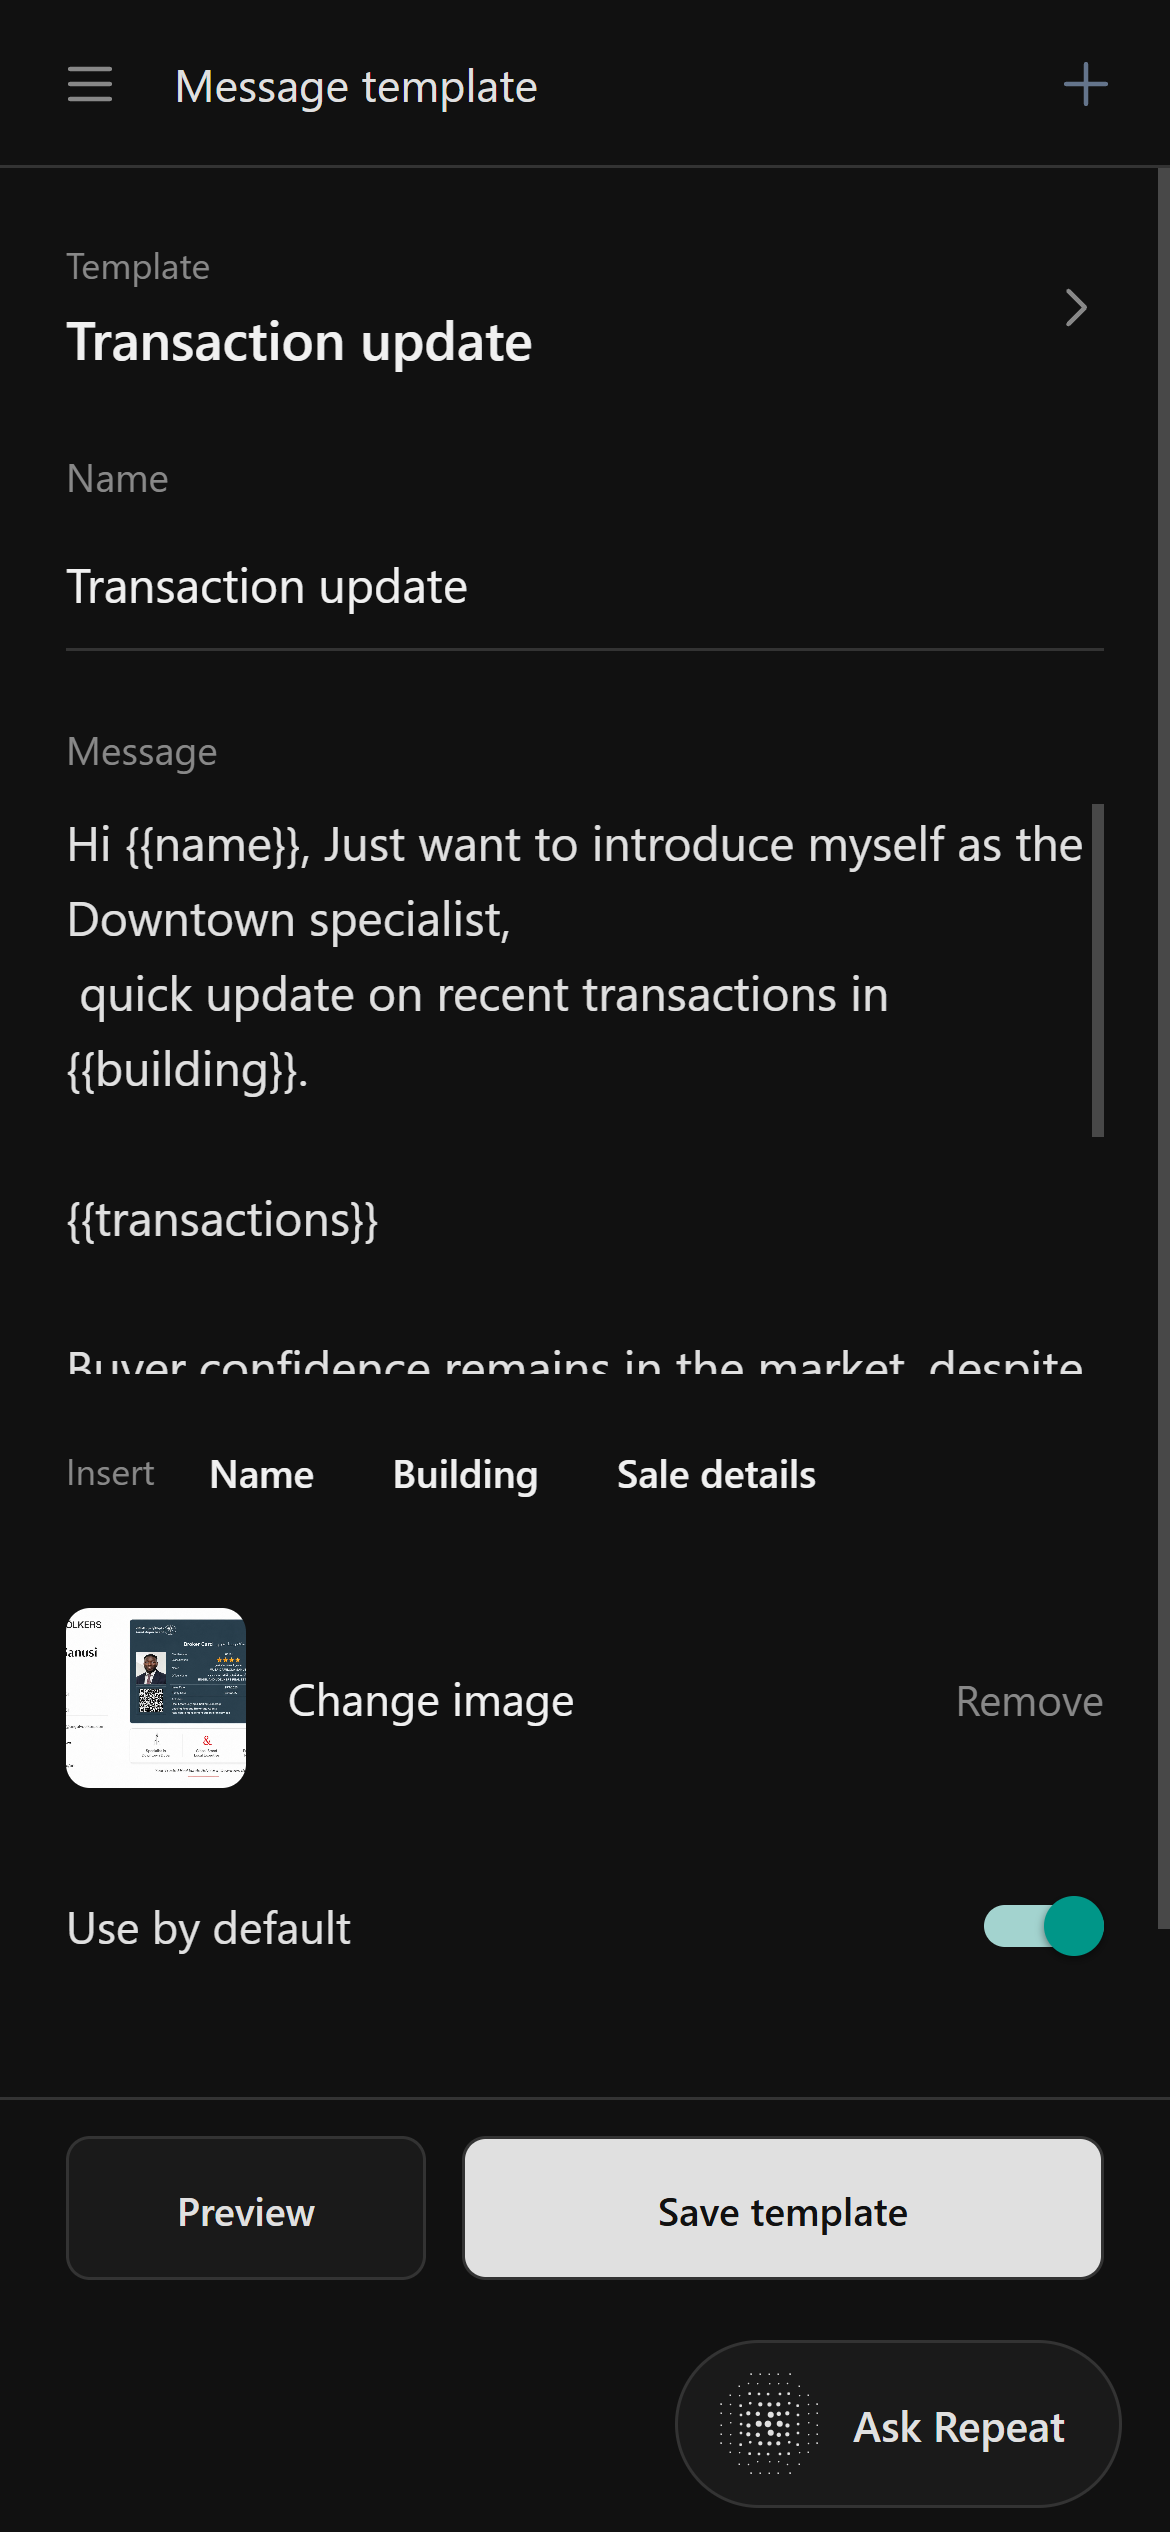
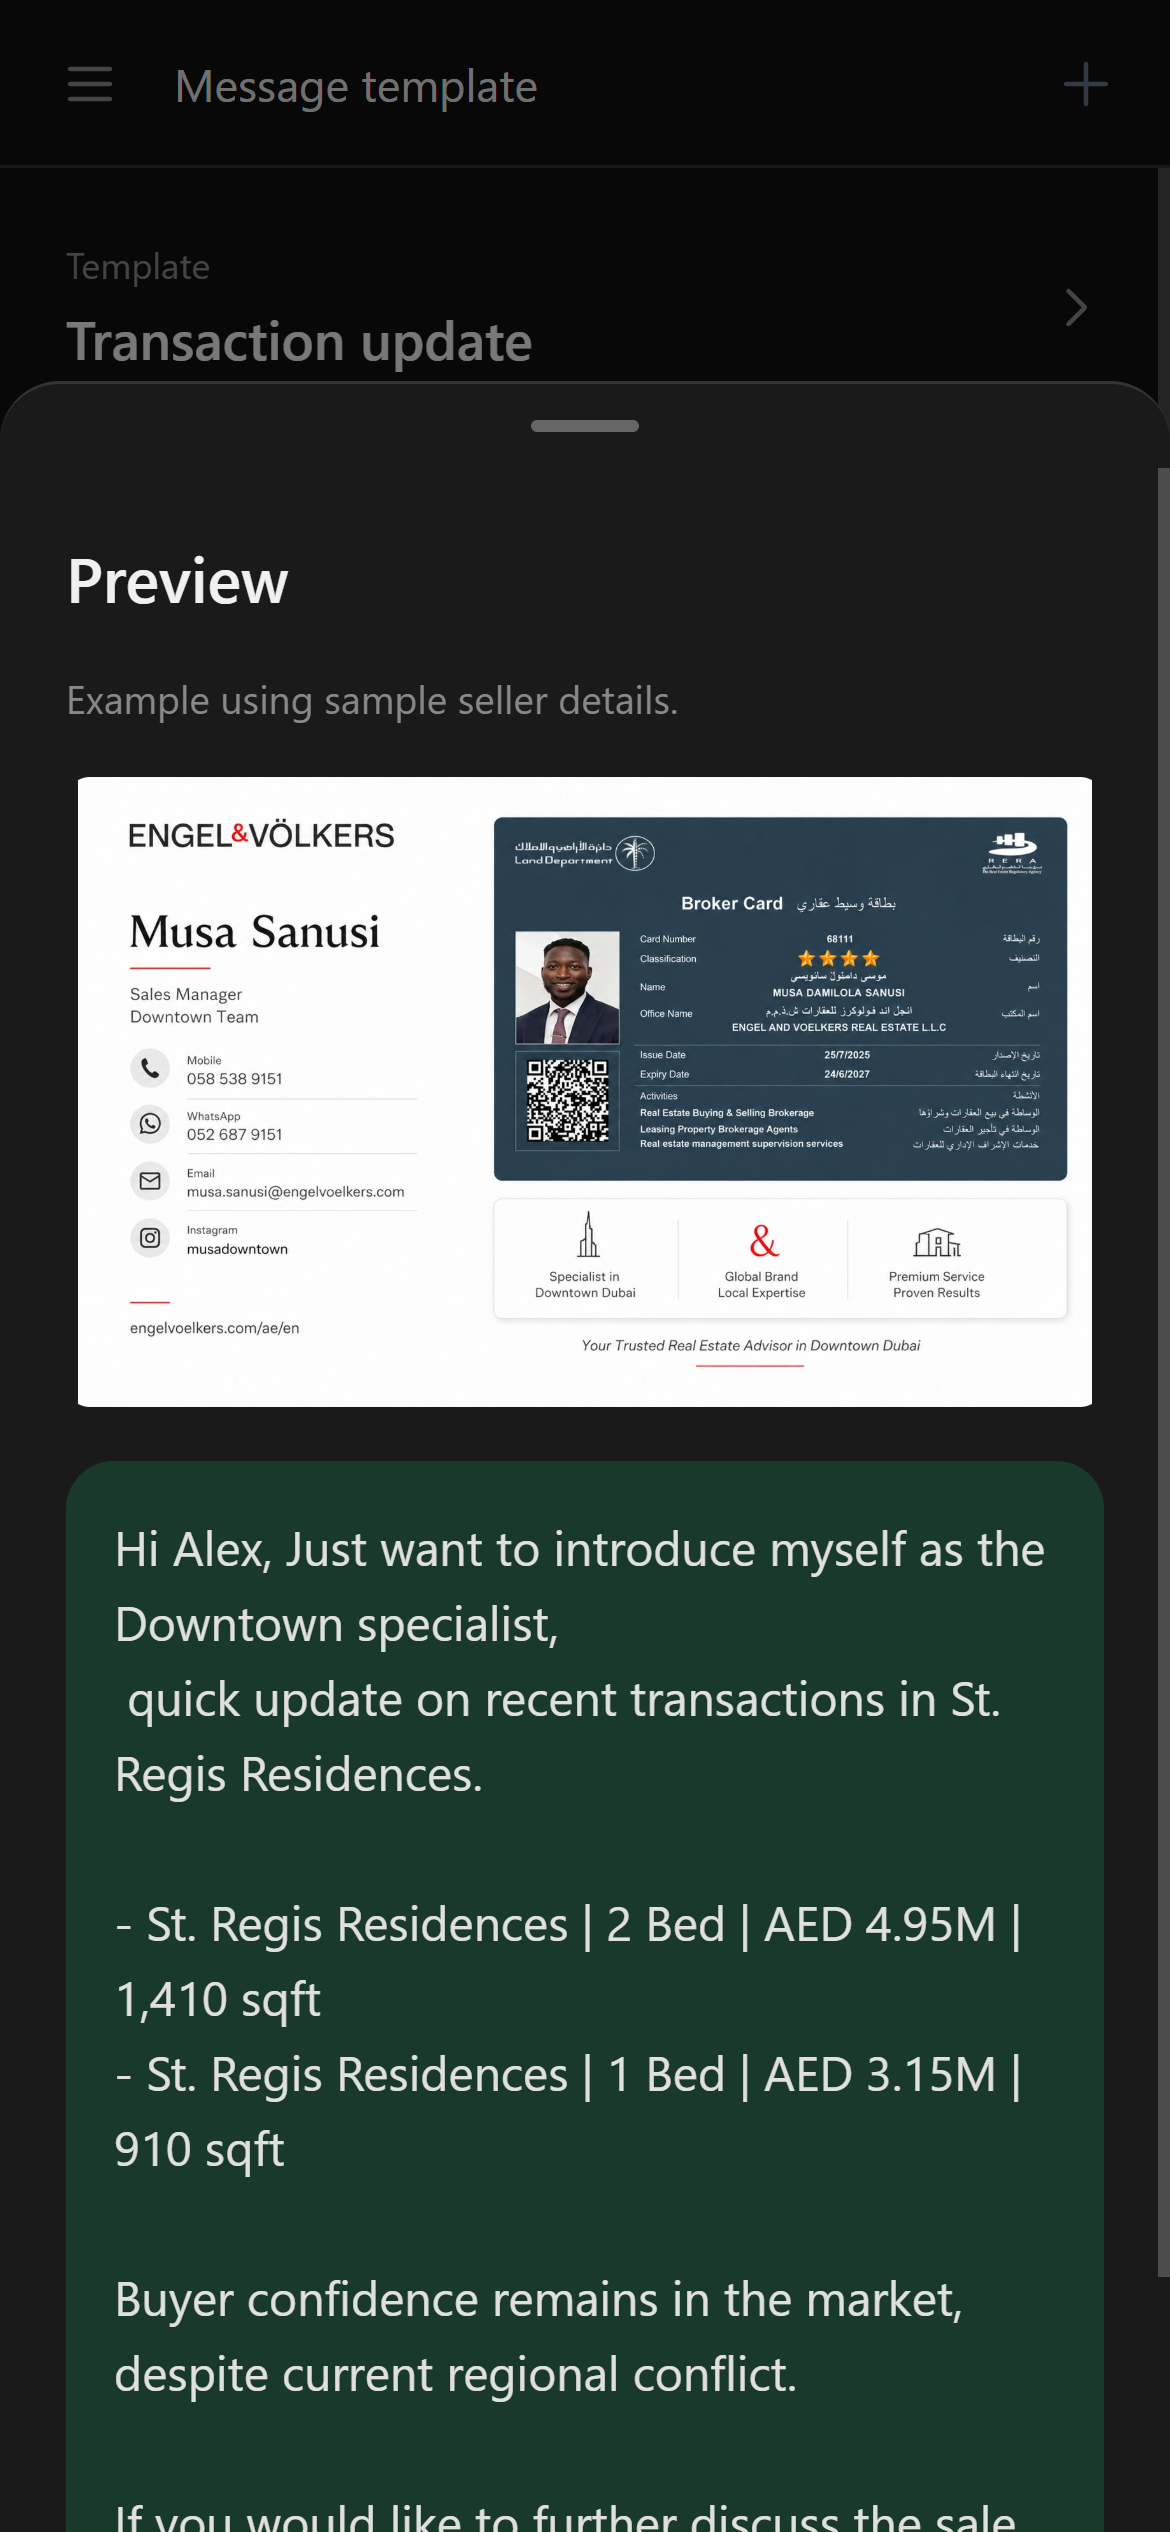
Show template image and real assistant reply in store preview

diff --git a/docs/app-store-preview-2026-09-23/index.html b/docs/app-store-preview-2026-09-23/index.html
@@ -32,12 +32,12 @@
       </figure>
       <figure data-screen="assistant" data-source="web">
         <canvas width="1242" height="2688" role="img" aria-label="Ask Repeat. Keep work moving. Paid subscription required. Actual mobile web assistant preview."></canvas>
-        <figcaption><span>05 · Ask Repeat</span><a download="repeat-ai-v4-05-assistant-draft.png">Download PNG</a></figcaption>
+        <figcaption><span>05 · Ask Repeat</span><a download="repeat-ai-v5-05-assistant-draft.png">Download PNG</a></figcaption>
         <p class="capture-status">Mobile web preview · iPhone capture pending</p>
       </figure>
       <figure data-screen="templates" data-source="web">
         <canvas width="1242" height="2688" role="img" aria-label="Your message. Ready to reuse. Paid subscription required. Actual mobile web message template preview."></canvas>
-        <figcaption><span>06 · Message templates</span><a download="repeat-ai-v4-06-templates-draft.png">Download PNG</a></figcaption>
+        <figcaption><span>06 · Message templates</span><a download="repeat-ai-v5-06-templates-draft.png">Download PNG</a></figcaption>
         <p class="capture-status">Mobile web preview · iPhone capture pending</p>
       </figure>
       <figure data-screen="schedule" data-source="web">

diff --git a/docs/app-store-preview-2026-09-23/README.md b/docs/app-store-preview-2026-09-23/README.md
@@ -14,8 +14,9 @@ Cards 5–7 now show authenticated mobile web captures of Ask Repeat, Message te
 
 The user completed sign-in at `http://localhost:8082/`. The older `dist-assistant-release-check` export reproduced a React Query provider error on Schedule; the existing newer `dist-assistant-minimal-check` export contains the previously implemented fix and rendered successfully. All three final captures use that newer export and the real account UI, with no fabricated application UI or assistant reply.
 
-- Ask Repeat: an actual request to draft a template returned `Failed to fetch` from this local web session. Its conversation was cleared; the screenshot shows the shorter unsent prompt “Draft a WhatsApp update for my Forte 2 leads.” No successful response, save, or send is implied.
-- Templates: existing Transaction update template, untouched. No template or attachment changes were saved.
+- Ask Repeat (revision 5): actual question and response drafting a WhatsApp update for a Forte 2 owner, using `{{name}}` and `{{transactions}}`. The browser's original `Failed to fetch` was confirmed as a CORS preflight failure. A temporary loopback development server routed only `/api/voice` to the existing production endpoint, forwarding the normal authenticated request without changing server access checks. The response is genuine, captured from the app; no template was saved or WhatsApp message sent.
+- Templates (revision 5): the existing Transaction update template's Preview sheet shows the full attached broker card, including the user's brother's portrait, above the sample message. No template or attachment changes were saved.
+- Updated exports: `exports/repeat-ai-v5-05-assistant-draft.png` and `exports/repeat-ai-v5-06-templates-draft.png`. Earlier revision 4 files remain for comparison. These are still mobile web drafts pending matching native iPhone captures.
 - Schedule: temporary unsaved Monday selections from the account's imported building list. Weekly scheduling stayed off, Save was never pressed, and the draft was discarded by reloading after capture.
 - Device frame: additional top inset on web captures keeps the frame's island clear of actual app navigation. No synthetic iOS status bar was added.
 - Verified seven rendered cards, no gallery horizontal overflow, three opaque RGB exports at the required dimensions, and targeted ESLint. No native build, upload or submission was started.
